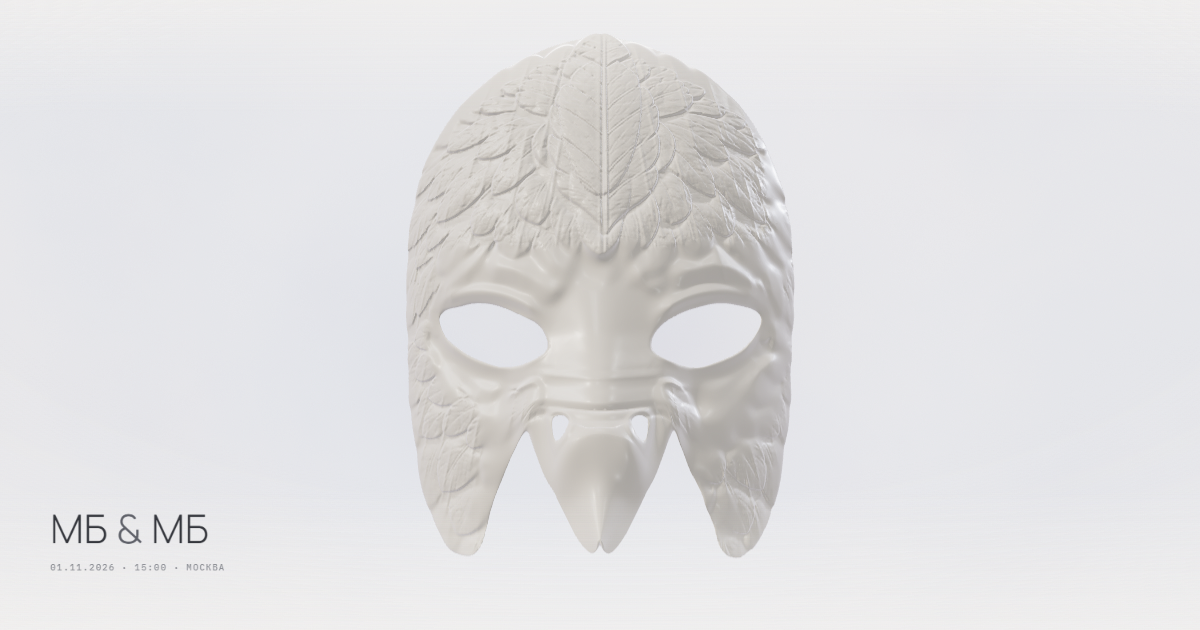
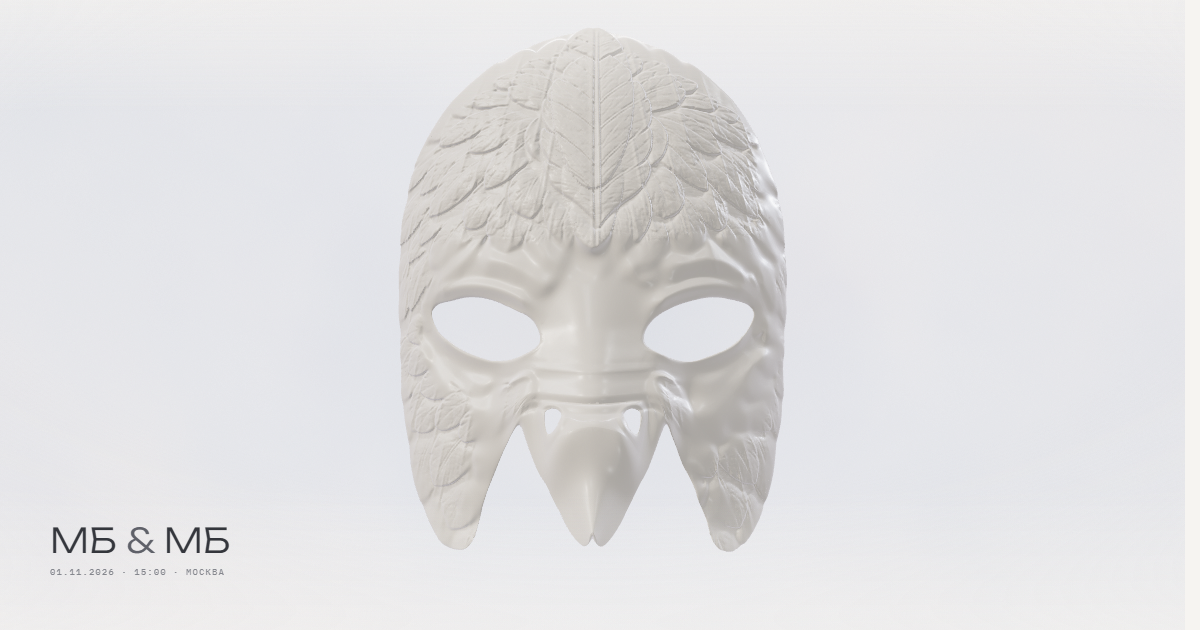
Switch main font to Unbounded, tighten hero spacing, refresh OG image

diff --git a/src/styles/sections.css b/src/styles/sections.css
@@ -66,11 +66,11 @@
 .hero__subtitle {
   position: relative;
   z-index: 1;
-  margin: 0;
+  margin: clamp(6px, 1.1vh, 16px) 0 0;
   font-size: clamp(2.1rem, 5vw, 5.4rem);
-  font-weight: 300;
-  line-height: 0.92;
-  letter-spacing: -0.025em;
+  font-weight: 200;
+  line-height: 0.9;
+  letter-spacing: -0.02em;
   color: var(--ink-soft);
 }
 
@@ -303,7 +303,7 @@
 .invite-line {
   max-width: 100%;
   font-size: clamp(34px, 5.2vw, 72px);
-  font-weight: 500;
+  font-weight: 400;
   line-height: 1.17;
   letter-spacing: -0.01em;
   white-space: nowrap;
@@ -454,8 +454,8 @@
   }
 
   .hero__subtitle {
-    margin: 0;
-    font-size: clamp(2.4rem, 11vw, 3.8rem);
+    margin: 8px 0 0;
+    font-size: clamp(2.1rem, 10.4vw, 3.4rem);
   }
 
   .hero__index {

diff --git a/src/styles/base.css b/src/styles/base.css
@@ -15,7 +15,7 @@
   --sand: #ece3dc;
   --silver: #e4e6ea;
   --mist: #c9ccd3;
-  --serif: 'Manrope', 'Helvetica Neue', Arial, sans-serif;
+  --serif: 'Unbounded Variable', 'Unbounded', 'Helvetica Neue', Arial, sans-serif;
   --mono: 'IBM Plex Mono', ui-monospace, 'SFMono-Regular', monospace;
   --gutter: clamp(20px, 4.2vw, 64px);
   --ease: cubic-bezier(0.22, 1, 0.36, 1);
@@ -711,7 +711,7 @@ figure {
   color: var(--ink);
   font-family: var(--serif);
   font-size: clamp(16px, 1.4vw, 19px);
-  font-weight: 500;
+  font-weight: 400;
   line-height: 1.2;
   transition: border-color 0.3s var(--ease);
 }

diff --git a/src/main.js b/src/main.js
@@ -1,9 +1,4 @@
-import '@fontsource/manrope/cyrillic-300.css';
-import '@fontsource/manrope/cyrillic-400.css';
-import '@fontsource/manrope/cyrillic-500.css';
-import '@fontsource/manrope/latin-300.css';
-import '@fontsource/manrope/latin-400.css';
-import '@fontsource/manrope/latin-500.css';
+import '@fontsource-variable/unbounded';
 import '@fontsource/ibm-plex-mono/cyrillic-400.css';
 import '@fontsource/ibm-plex-mono/cyrillic-500.css';
 import '@fontsource/ibm-plex-mono/latin-400.css';

diff --git a/index.html b/index.html
@@ -87,9 +87,9 @@
     <main class="content" id="invitation">
       <section class="hero" aria-labelledby="hero-title">
         <h2 class="hero__title" id="hero-title" data-split="chars">Приходи</h2>
+        <p class="hero__subtitle">на наш праздник</p>
 
         <div class="hero__bottom">
-          <p class="hero__subtitle">на наш праздник</p>
           <p class="hero__names">МБ <em>&amp;</em> МБ</p>
         </div>
       </section>

diff --git a/README.md b/README.md
@@ -9,7 +9,7 @@
 - Vite + vanilla JS (ES modules)
 - Three.js, GSAP + ScrollTrigger, Lenis
 - Leaflet (ленивый импорт только при открытии карты)
-- Шрифты self-hosted: Manrope и IBM Plex Mono через `@fontsource`
+- Шрифты self-hosted: Unbound (переменный, кириллица) и IBM Plex Mono через `@fontsource`
 - Деплой: GitHub Actions → GitHub Pages
 
 ## Команды
@@ -101,7 +101,7 @@ scripts/
 - `p 0.84–1.00` — сцена мягко уходит в матовую бумагу; ниже начинается обычная
   HTML-галерея.
 
-Финальный текст — отдельный HTML-слой в Manrope серого цвета; поверх
+Финальный текст — отдельный HTML-слой в Unbound серого цвета; поверх
 точечного облака, без белого овала и подчёркиваний. Точки подсвечивают реальные
 углубления гравировки на маске, поэтому остаются внутри букв. Нижняя карточка
 программы остаётся полностью читаемой и кликабельной.
